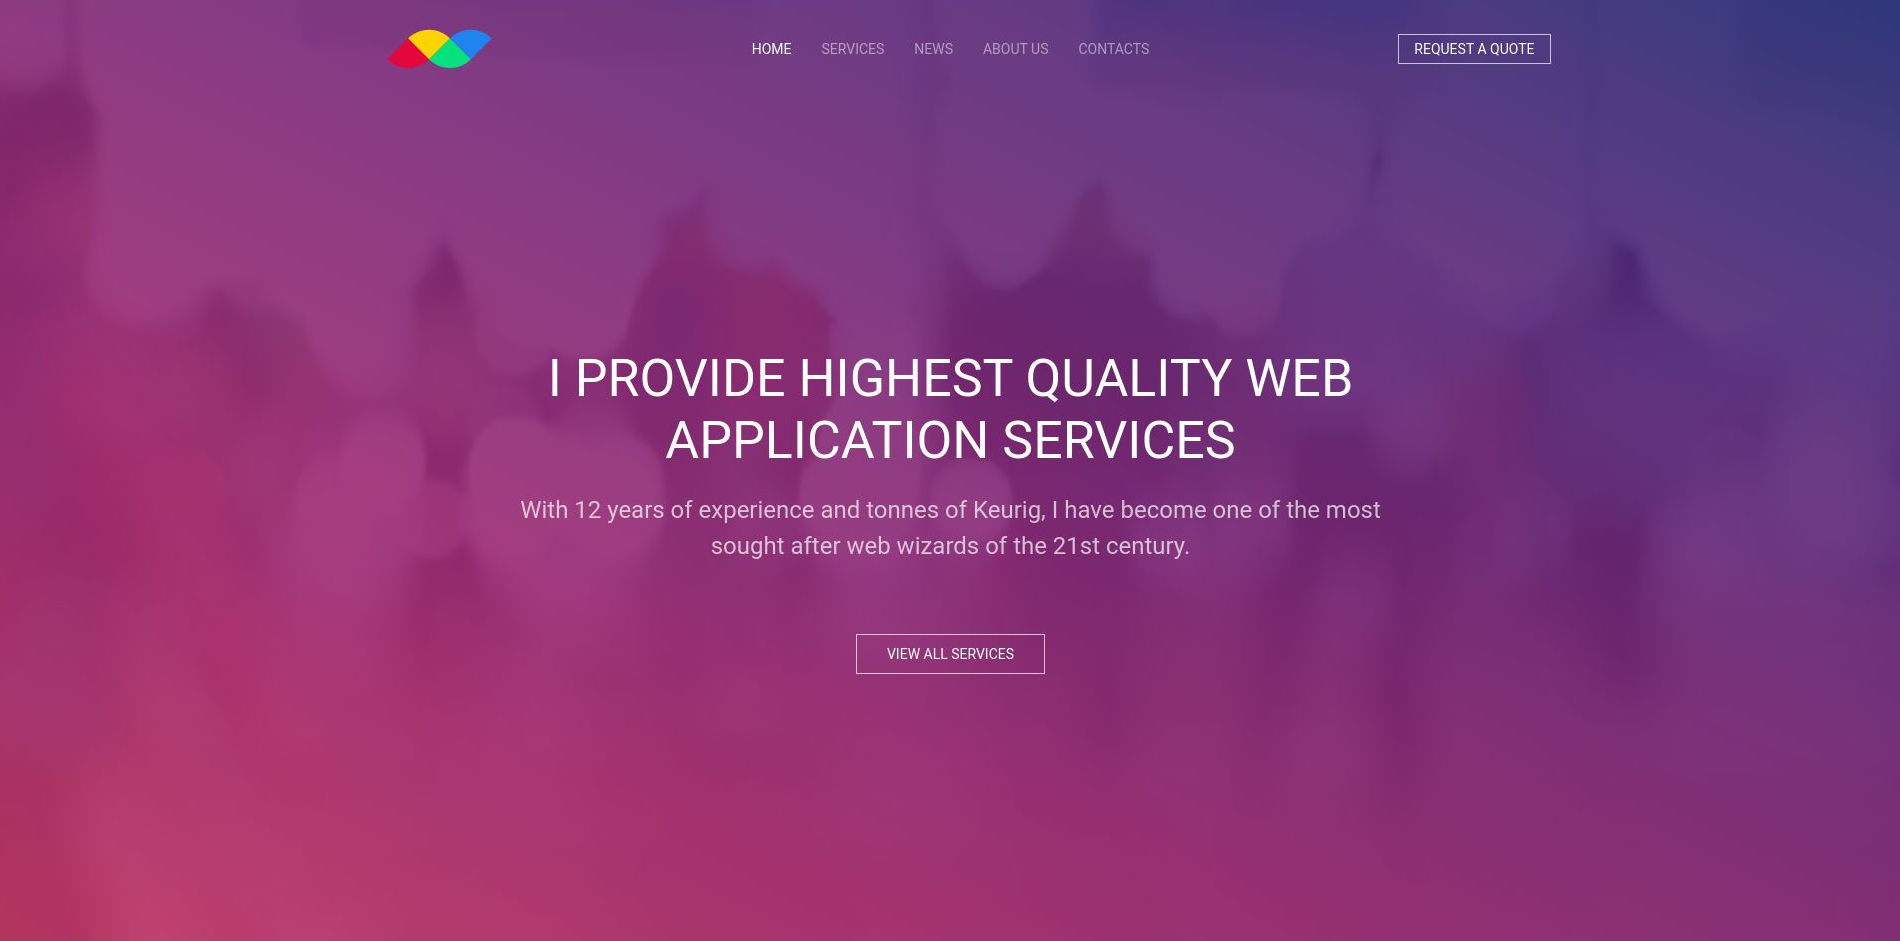
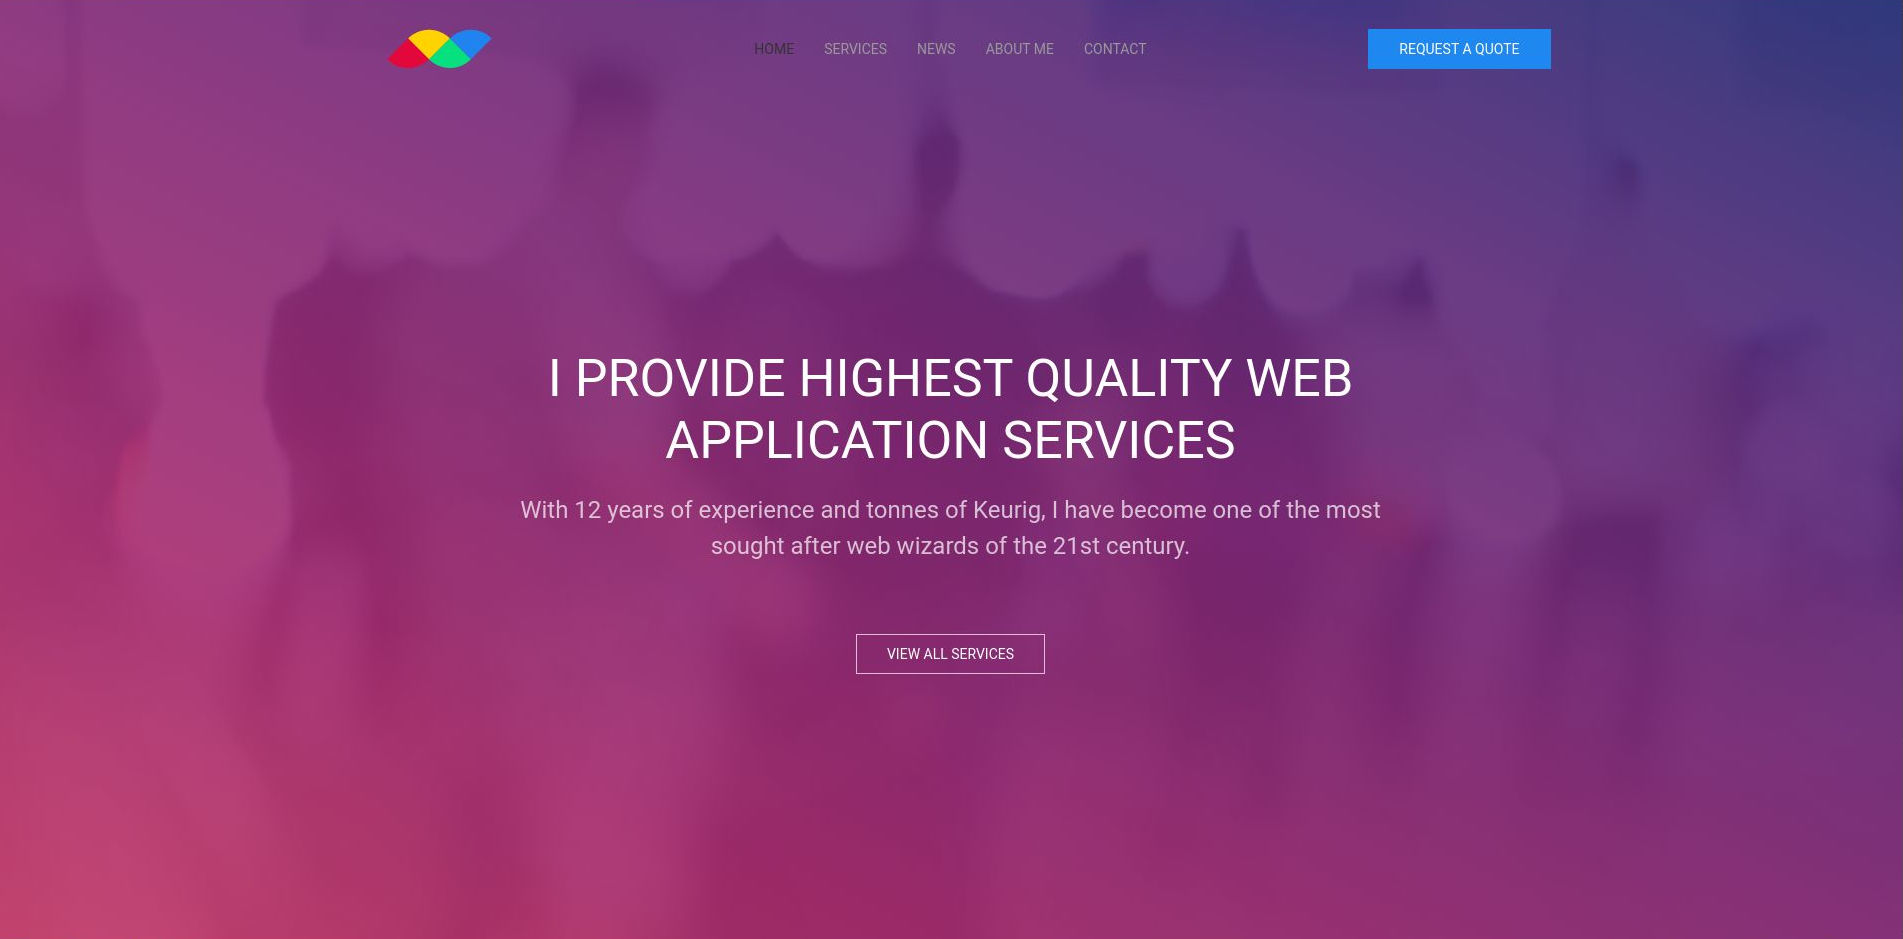
Links

diff --git a/components/BaseHeader.vue b/components/BaseHeader.vue
@@ -1,42 +1,35 @@
 <template>
-  <div class="uk-position-relative uk-background-center-center uk-background-cover" style="background-image: url('https://uikitbase.com/library/Blurred Crowd of People Walking.jpg');" uk-height-viewport>
-	<div class="uk-position-cover uk-cover-container">
-		<video autoplay loop playsinline muted uk-cover>
-			<source src="https://uikitbase.com/library/Blurred Crowd of People Walking.mp4" type="video/mp4">
-		</video>
-	</div>
-	<div class="uk-position-cover" style="background-image: linear-gradient(to right top, rgba(195, 55, 100, 0.9), rgba(166, 42, 111, 0.9), rgba(130, 38, 117, 0.9), rgba(87, 38, 118, 0.9), rgba(29, 38, 113, 0.9));"></div>
-	<nav class="uk-navbar-container uk-navbar-transparent uk-light">
+  <nav class="uk-navbar-container uk-navbar-transparent uk-dark">
 		<div class="uk-container">
 			<div uk-navbar>
 				<div class="uk-navbar-left">
-					<a href="#" class="uk-navbar-item uk-logo">
+					<a class="uk-navbar-item uk-logo">
 						<img src="logo.svg" alt="Logo" />
 					</a>
 				</div>
 				<div class="uk-navbar-center">
 					<ul class="uk-navbar-nav uk-visible@m">
-						<li class="uk-active"><a href="#">Home</a></li>
+						<li class="uk-active"><NuxtLink to="/">Home</NuxtLink></li>
 						<li>
-							<a href="#">Services</a>
+							<NuxtLink to="/services">Services</NuxtLink>
 							<div class="uk-navbar-dropdown">
 								<ul class="uk-nav uk-navbar-dropdown-nav">
-									<li><a href="#">Ocean freight forwarding</a></li>
-									<li><a href="#">Customs house brokerage</a></li>
-									<li><a href="#">Transportation & Distribution</a></li>
+									<li><NuxtLink to="/">Ocean freight forwarding</NuxtLink></li>
+									<li><NuxtLink to="/">Customs house brokerage</NuxtLink></li>
+									<li><NuxtLink to="/">Transportation & Distribution</NuxtLink></li>
 								</ul>
 							</div>
 						</li>
-						<li><a href="#">News</a></li>
-						<li><a href="#">About Us</a></li>
-						<li><a href="#">Contacts</a></li>
+						<li><NuxtLink to="/news">News</NuxtLink></li>
+						<li><NuxtLink to="/about">About Me</NuxtLink></li>
+						<li><NuxtLink to="/contact">Contact</NuxtLink></li>
 					</ul>
 				</div>
 				<div class="uk-navbar-right">
 					<ul class="uk-navbar-nav uk-visible@m">
 						<li>
 							<div class="uk-navbar-item">
-								<a href="#" class="uk-button uk-button-small uk-button-default">Request a quote</a>
+								<NuxtLink to="/" class="uk-button uk-button-medium uk-button-secondary">Request a quote</NuxtLink>
 							</div>
 						</li>
 					</ul>
@@ -45,22 +38,7 @@
 			</div>
 		</div>
 	</nav>
-	<div class="uk-position-relative uk-container uk-container-small uk-flex uk-flex-middle" uk-height-viewport="offset-top: true">
-		<div class="uk-section uk-section-regular uk-width-1-1 uk-light">
-			<div class="uk-flex uk-text-center uk-flex-middle uk-flex-center">
-				<div class="uk-width-1-1">
-					<h1 class="uk-heading-small">I PROVIDE HIGHEST QUALITY WEB APPLICATION SERVICES</h1>
-					<div class="uk-text-lead">With 12 years of experience and tonnes of Keurig, I have become one of the most sought after web wizards of the 21st century.</div>
-					<div class="uk-margin-large-top">
-						<p>
-							<a href="#" class="uk-button uk-button-default uk-button-xlarge">View all services</a>
-						</p>
-					</div>
-				</div>
-			</div>
-		</div>
-	</div>
-</div>
+	
 
 </template>
 

diff --git a/pages/index.vue b/pages/index.vue
@@ -1,9 +1,29 @@
 <template>
 <div>
-  <BaseHeader />
-      <h1 class="title">
-  portfolio
-  </h1>
+<div class="uk-position-relative uk-background-center-center uk-background-cover" style="background-image: url('https://uikitbase.com/library/Blurred Crowd of People Walking.jpg');" uk-height-viewport>
+	<div class="uk-position-cover uk-cover-container">
+		<video autoplay loop playsinline muted uk-cover>
+			<source src="https://uikitbase.com/library/Blurred Crowd of People Walking.mp4" type="video/mp4">
+		</video>
+	</div>
+	<div class="uk-position-cover" style="background-image: linear-gradient(to right top, rgba(195, 55, 100, 0.9), rgba(166, 42, 111, 0.9), rgba(130, 38, 117, 0.9), rgba(87, 38, 118, 0.9), rgba(29, 38, 113, 0.9));"></div>
+<BaseHeader />
+<div class="uk-position-relative uk-container uk-container-small uk-flex uk-flex-middle" uk-height-viewport="offset-top: true">
+		<div class="uk-section uk-section-regular uk-width-1-1 uk-light">
+			<div class="uk-flex uk-text-center uk-flex-middle uk-flex-center">
+				<div class="uk-width-1-1">
+					<h1 class="uk-heading-small">I PROVIDE HIGHEST QUALITY WEB APPLICATION SERVICES</h1>
+					<div class="uk-text-lead">With 12 years of experience and tonnes of Keurig, I have become one of the most sought after web wizards of the 21st century.</div>
+					<div class="uk-margin-large-top">
+						<p>
+							<NuxtLink to="/contact" class="uk-button uk-button-default uk-button-xlarge">View all services</NuxtLink>
+						</p>
+					</div>
+				</div>
+			</div>
+		</div>
+	</div>
+</div>
   <BaseFooter />
 </div>
 </template>
@@ -12,6 +32,6 @@
 export default {}
 </script>
 
-<style>
+<style scoped>
 
 </style>

diff --git a/.nuxt/router.js b/.nuxt/router.js
@@ -4,6 +4,10 @@ import { normalizeURL, decode } from 'ufo'
 import { interopDefault } from './utils'
 import scrollBehavior from './router.scrollBehavior.js'
 
+const _471e6725 = () => interopDefault(import('../pages/About.vue' /* webpackChunkName: "pages/About" */))
+const _08c3f390 = () => interopDefault(import('../pages/Contact.vue' /* webpackChunkName: "pages/Contact" */))
+const _2ea78c6b = () => interopDefault(import('../pages/News.vue' /* webpackChunkName: "pages/News" */))
+const _45191476 = () => interopDefault(import('../pages/Services.vue' /* webpackChunkName: "pages/Services" */))
 const _2137bbec = () => interopDefault(import('../pages/index.vue' /* webpackChunkName: "pages/index" */))
 
 const emptyFn = () => {}
@@ -18,6 +22,22 @@ export const routerOptions = {
   scrollBehavior,
 
   routes: [{
+    path: "/About",
+    component: _471e6725,
+    name: "About"
+  }, {
+    path: "/Contact",
+    component: _08c3f390,
+    name: "Contact"
+  }, {
+    path: "/News",
+    component: _2ea78c6b,
+    name: "News"
+  }, {
+    path: "/Services",
+    component: _45191476,
+    name: "Services"
+  }, {
     path: "/",
     component: _2137bbec,
     name: "index"

diff --git a/pages/Services.vue b/pages/Services.vue
@@ -1,0 +1,17 @@
+<template>
+<div>
+  <BaseHeader />
+  <h1 class="title">
+  Services
+  </h1>
+  <BaseFooter />
+</div>
+</template>
+
+<script>
+export default {}
+</script>
+
+<style>
+
+</style>

diff --git a/pages/Contact.vue b/pages/Contact.vue
@@ -1,0 +1,17 @@
+<template>
+<div>
+  <BaseHeader />
+  <h1 class="title">
+  Contact
+  </h1>
+  <BaseFooter />
+</div>
+</template>
+
+<script>
+export default {}
+</script>
+
+<style>
+
+</style>

diff --git a/pages/About.vue b/pages/About.vue
@@ -1,0 +1,17 @@
+<template>
+<div>
+  <BaseHeader />
+  <h1 class="title">
+  About
+  </h1>
+  <BaseFooter />
+</div>
+</template>
+
+<script>
+export default {}
+</script>
+
+<style>
+
+</style>

diff --git a/pages/News.vue b/pages/News.vue
@@ -1,0 +1,17 @@
+<template>
+<div>
+  <BaseHeader />
+  <h1 class="title">
+  News
+  </h1>
+  <BaseFooter />
+</div>
+</template>
+
+<script>
+export default {}
+</script>
+
+<style>
+
+</style>

diff --git a/layouts/default.vue b/layouts/default.vue
@@ -1,6 +1,6 @@
 <template>
   <div>
-    <Nuxt />
+   <Nuxt />
   </div>
 </template>
 
